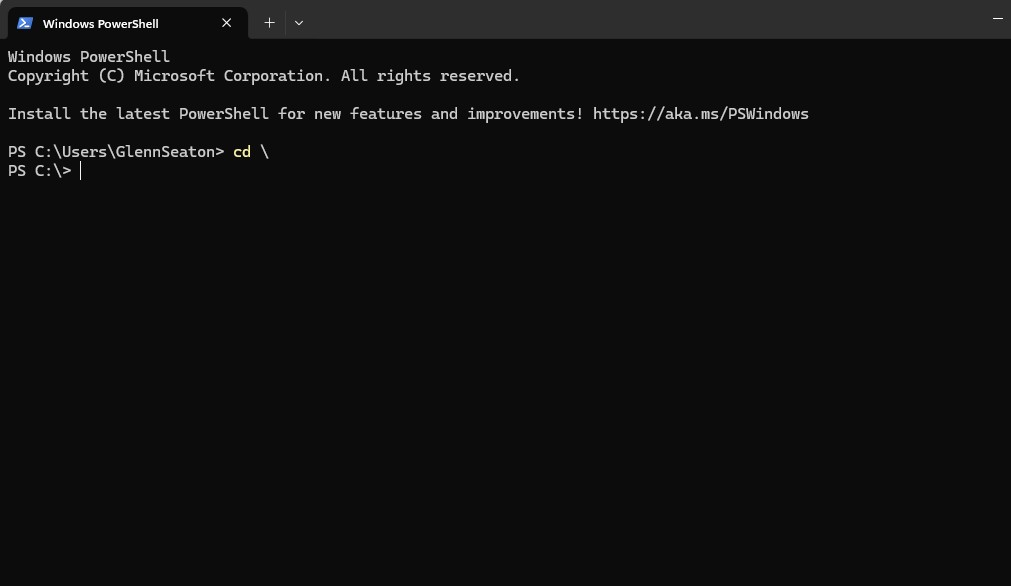
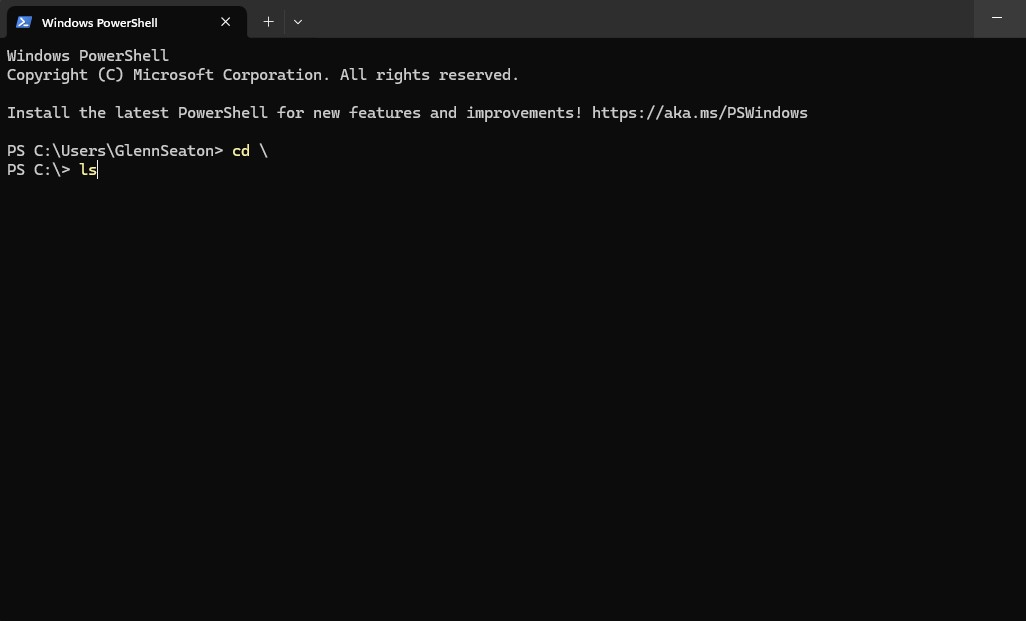
Manual S32 sensor install add links and update image

Changed region(s): [[0.0, 0.0, 1.0, 0.3072], [0.2146, 0.0, 0.2453, 0.0614]]

diff --git a/pages/wifidocs/wifi32s-manual-update.md b/pages/wifidocs/wifi32s-manual-update.md
@@ -13,7 +13,7 @@ folder: mydoc
 This document outlines the process for manually updating a JemRF S32 WiFi Sensor from a desktop PC. This procedure is for new installs and to reload a device that received a bad update.
 
 ### Download tools
-A folder must be installed on the local PC's root disk drive "C:". Download the tools here. The download is a compressed file Espressif.zip, open the file with Windows Explorer and drag the folder inside "Espressif" to "This PC, OS (C:).
+A folder must be installed on the local PC's root disk drive "C:". [Download the tools here.](\firmware\Espressif.zip) The download is a compressed file Espressif.zip, open the file with Windows Explorer and drag the folder inside "Espressif" to "This PC, OS (C:).
 Downloading and installing the tools is a one-time task.
 
 ### Run Updates
@@ -21,28 +21,35 @@ Left-click on Start and select "Terminal". A new window will appear on the deskt
 <center>{% include image.html file="espressif1.jpg" alt="WiFi Sensor Update Available "%}
 Figure 1.</center>
 
+
 Next, you need to change to the location of the tools as shown in Figure 2 and Figure 3.
 <center>{% include image.html file="espressif2.jpg" alt="WiFi Sensor Update Available "%}
 Figure 2.</center>
 
+
 <center>{% include image.html file="espressif3.jpg" alt="WiFi Sensor Update Available "%}
 Figure 3.</center>
+
  
 To show the list of tools, type "ls" as shown in Figure 4.
 <center>{% include image.html file="espressif4.jpg" alt="WiFi Sensor Update Available "%}
 Figure 4.</center>
 
+
 The next task is to identify what interface your WiFi Sensor is plugged into. To do this, we will list the ports in use on your computer, then plug the WiFi Sensor in and rerun the command to show the new port used by your sensor. Figure 5 shows the before (with your sensor unplugged) and after plugging in the sensor and running the "pyserial-ports.exe" command again, showing the new port (in this example, COM6).
 <center>{% include image.html file="espressif5.jpg" alt="WiFi Sensor Update Available "%}
 Figure 5.</center>
+
 
 The last step is to install the firmware via the COM port on your computer. Enter the command "./loader.ps COM6" as shown in Figure 6, replacing COM6 with the COM value on your PC. Note that it is case-sensitive, so use uppercase when typing "COM". If there are no issues connecting to the device, you will see the loading process start as seen in the bottom half of Figure 6.
 <center>{% include image.html file="espressif6.jpg" alt="WiFi Sensor Update Available "%}
 Figure 6.</center>
 
+
 Once the update completes, the process will start a monitor application, and you should start seeing messages like shown in Figure 7.
 <center>{% include image.html file="espressif7.jpg" alt="WiFi Sensor Update Available "%}
 Figure 7.</center>
+
 
 When you are done, press the Control (Ctrl) key and the "]" key at the same time, and that should exit the monitor as shown in Figure 8.
 <center>{% include image.html file="espressif8.jpg" alt="WiFi Sensor Update Available "%}
